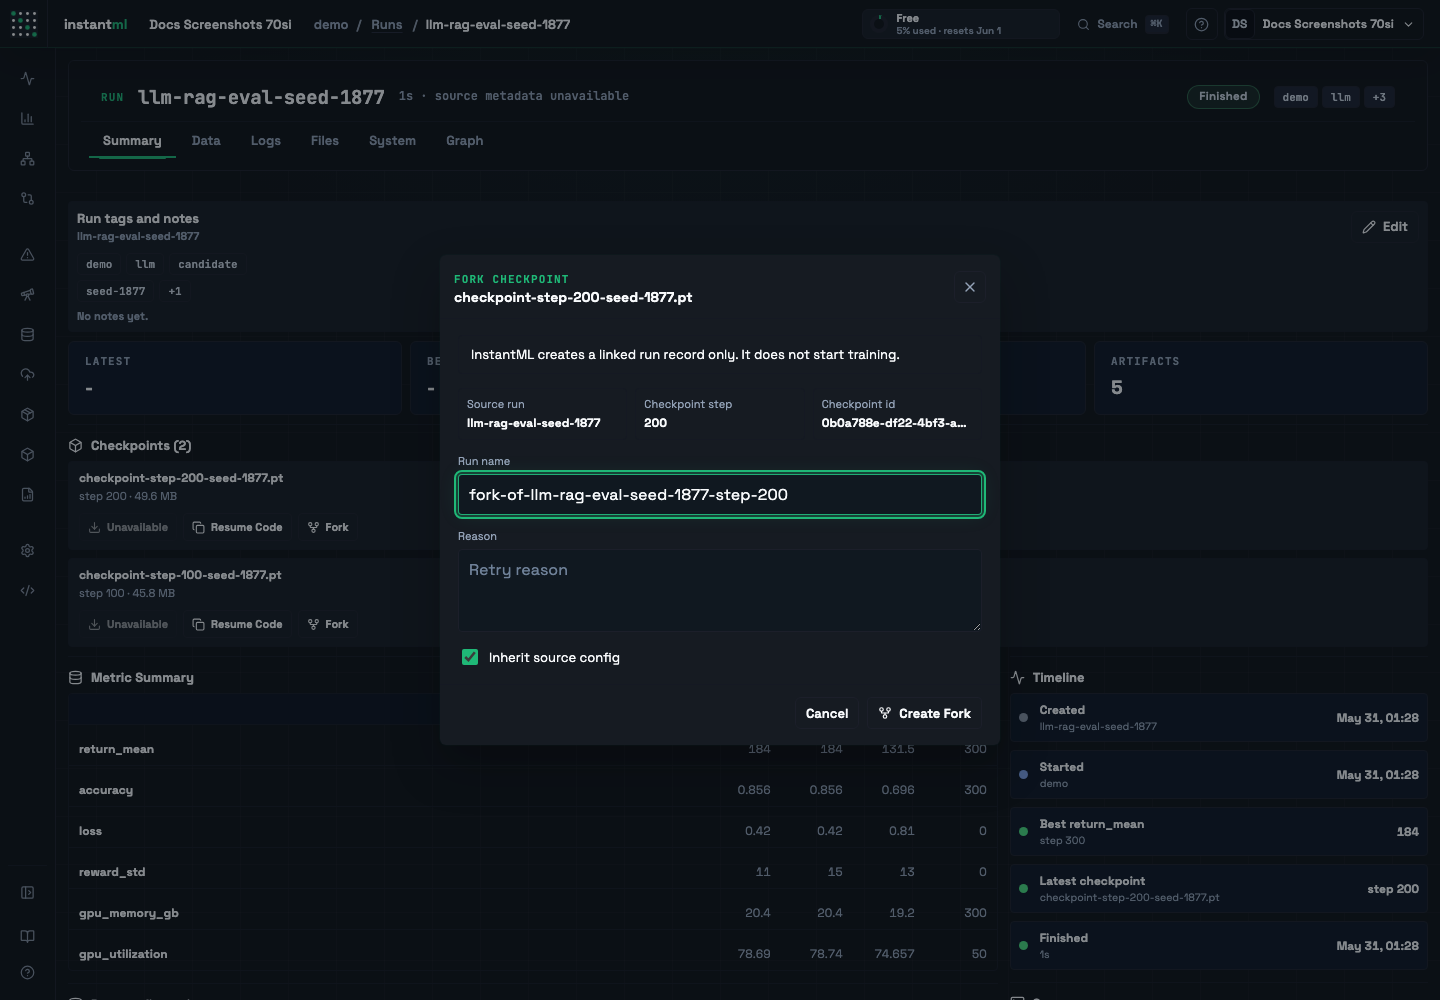
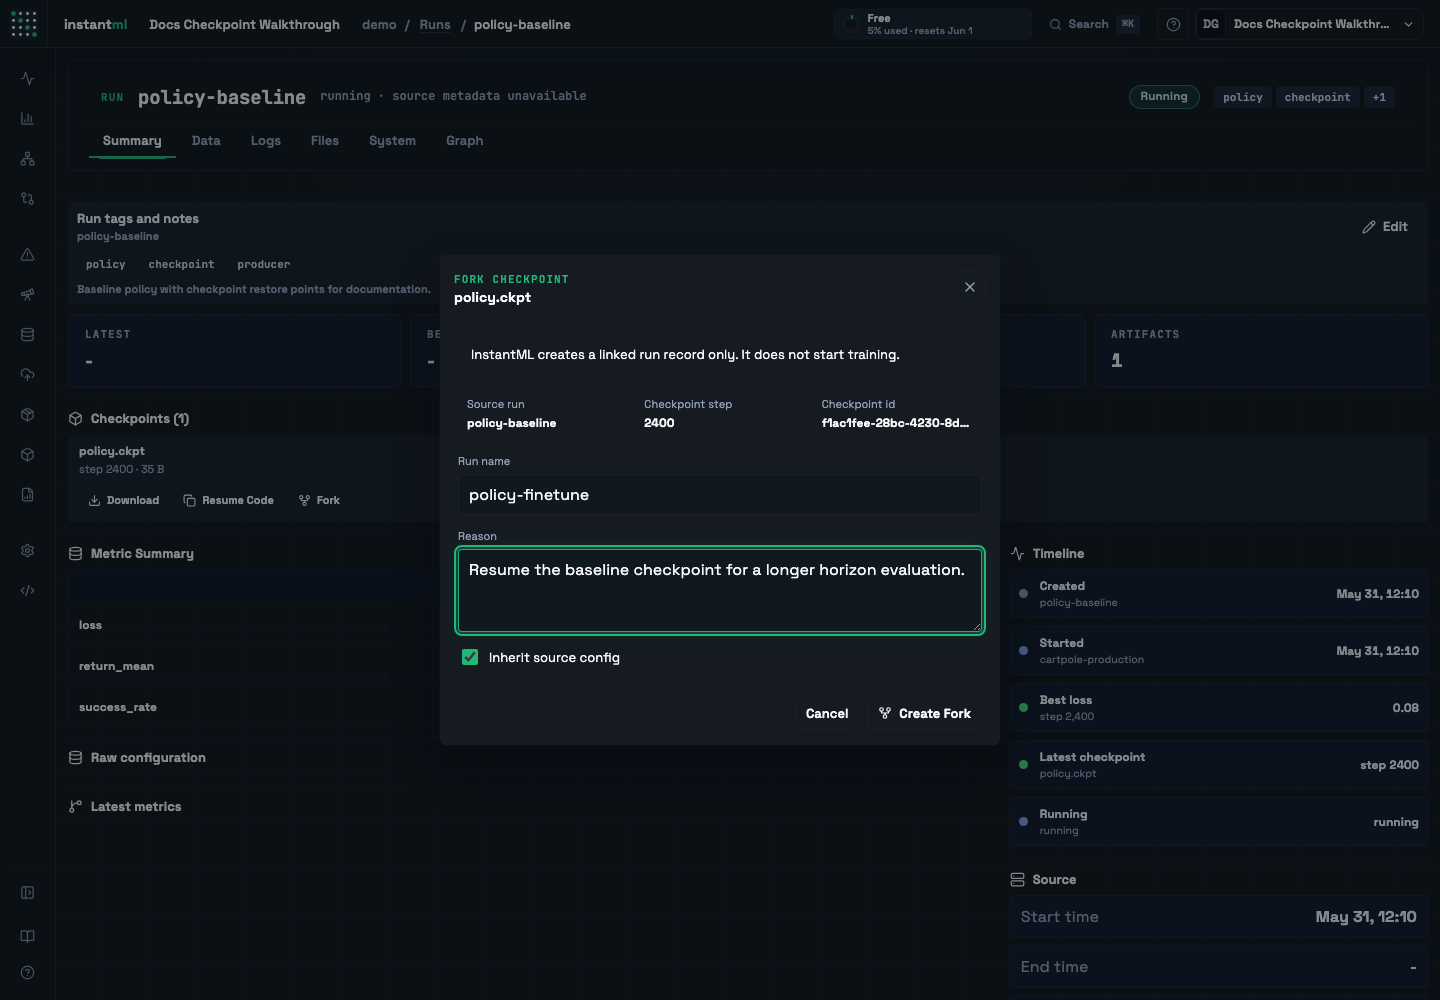
Update artifacts docs screenshots

diff --git a/apps/web/app/dashboard/dashboard-shell.tsx b/apps/web/app/dashboard/dashboard-shell.tsx
@@ -507,6 +507,9 @@ export function DashboardShell({ initialTab = "runs" }: { initialTab?: TabId }) 
   const [newApiKey, setNewApiKey] = useState("");
   const [adminBusy, setAdminBusy] = useState(false);
 
+  const hasSeriesRef = useRef(false);
+  const hasPanelSeriesRef = useRef(false);
+  const hasWorkspaceSeriesRef = useRef(false);
   const summaryMatchesProject = !project || summary.runs.every((run) => run.project === project);
   // Key the metric option list on its content, not on `summary` identity.
   // Otherwise every pagination produces a new array reference even when the
@@ -559,6 +562,11 @@ export function DashboardShell({ initialTab = "runs" }: { initialTab?: TabId }) 
   }, [activeTab, metricSeriesRuns, primaryRun?.id]);
   const seriesFetchRunKey = useMemo(() => seriesFetchRuns.map((run) => run.id).join(","), [seriesFetchRuns]);
   const dashboardSelectionFilterKey = [project, status, queryInput, query, sortBy, metricKey].join("\u0000");
+  useEffect(() => {
+    hasSeriesRef.current = series.length > 0;
+    hasPanelSeriesRef.current = Object.keys(panelSeries).length > 0;
+    hasWorkspaceSeriesRef.current = Object.keys(workspaceSeries).length > 0;
+  }, [panelSeries, series, workspaceSeries]);
   useEffect(() => {
     // Remember runs after commit so interrupted renders do not mutate the
     // directory. This keeps off-page selected runs resolvable without making
@@ -1435,7 +1443,7 @@ export function DashboardShell({ initialTab = "runs" }: { initialTab?: TabId }) 
   useEffect(() => {
     if (project && !summaryMatchesProject) {
       setWorkspaceReady(false);
-      setWorkspaceSeries({});
+      if (hasWorkspaceSeriesRef.current) setWorkspaceSeries({});
       return;
     }
     let raw = safeSavedView(localStorage.getItem(scopedWorkspaceStorageKey));
@@ -1452,7 +1460,7 @@ export function DashboardShell({ initialTab = "runs" }: { initialTab?: TabId }) 
     }
     setWorkspaceView(sanitizeWorkspaceView(raw, actualMetricOptions, project));
     setWorkspaceReady(Boolean(raw) || actualMetricOptions.length > 0);
-    setWorkspaceSeries({});
+    if (hasWorkspaceSeriesRef.current) setWorkspaceSeries({});
     setAddPanelSectionId("");
     setEditingPanelRef(null);
     setFullscreenPanelRef(null);
@@ -1506,6 +1514,9 @@ export function DashboardShell({ initialTab = "runs" }: { initialTab?: TabId }) 
     if (hoverFrameRef.current !== null) window.cancelAnimationFrame(hoverFrameRef.current);
   }, []);
 
+  // This effect owns selectedRunDetails hydration. Key it on the selection and
+  // current page data, not selectedRunDetails itself, so pruning/replacing page
+  // detail objects cannot schedule a render loop.
   useEffect(() => {
     let cancelled = false;
     const controller = new AbortController();
@@ -1555,7 +1566,7 @@ export function DashboardShell({ initialTab = "runs" }: { initialTab?: TabId }) 
       cancelled = true;
       controller.abort();
     };
-  }, [api, primaryRunId, referenceRunId, selectedRunDetails, selectedRunIds, sortedRuns]);
+  }, [api, primaryRunId, referenceRunId, selectedRunIds, sortedRuns]);
 
   useEffect(() => {
     if (preserveRunWorkspaceTabOnceRef.current) {
@@ -1581,13 +1592,13 @@ export function DashboardShell({ initialTab = "runs" }: { initialTab?: TabId }) 
       const shouldLoad = activeTab === "metrics" || (activeTab === "detail" && runWorkspaceTab === "data");
       const runsForFetch = seriesFetchRuns;
       if (!shouldLoad || !metricKey || !runsForFetch.length) {
-        setSeries([]);
+        if (hasSeriesRef.current) setSeries([]);
         return;
       }
       // Live refreshes (only the tick changed) keep the current curve on screen
       // and swap in the new points atomically; selection/metric changes clear
       // first and stream chunks for responsiveness.
-      if (!isLiveRefresh) setSeries([]);
+      if (!isLiveRefresh && hasSeriesRef.current) setSeries([]);
       const metricPayloads = await fetchBatchedMetricSeries(api, metricKey, runsForFetch, controller.signal, isLiveRefresh ? undefined : (patch) => {
         if (!cancelled) setSeries(patch);
       });
@@ -1613,10 +1624,10 @@ export function DashboardShell({ initialTab = "runs" }: { initialTab?: TabId }) 
       const metricsToLoad = pinnedMetrics.filter((metric) => metric && metric !== metricKey);
       const runsForFetch = metricSeriesRuns;
       if (activeTab !== "metrics" || !metricsToLoad.length || !runsForFetch.length) {
-        setPanelSeries({});
+        if (hasPanelSeriesRef.current) setPanelSeries({});
         return;
       }
-      if (!isLiveRefresh) setPanelSeries({});
+      if (!isLiveRefresh && hasPanelSeriesRef.current) setPanelSeries({});
       const next = await fetchMetricSeriesForMetrics(api, metricsToLoad, runsForFetch, controller.signal, (metric, patch) => {
         if (!cancelled && !isLiveRefresh) setPanelSeries((current) => ({ ...current, [metric]: patch }));
       });
@@ -1639,10 +1650,10 @@ export function DashboardShell({ initialTab = "runs" }: { initialTab?: TabId }) 
     workspaceSeriesSignatureRef.current = signature;
     async function loadWorkspaceSeries() {
       if (activeTab !== "runs" || !workspacePanelMetrics.length || !workspaceFetchRuns.length) {
-        setWorkspaceSeries({});
+        if (hasWorkspaceSeriesRef.current) setWorkspaceSeries({});
         return;
       }
-      if (!isLiveRefresh) setWorkspaceSeries({});
+      if (!isLiveRefresh && hasWorkspaceSeriesRef.current) setWorkspaceSeries({});
       const next = await fetchMetricSeriesForMetrics(api, workspacePanelMetrics, workspaceFetchRuns, controller.signal, (metric, patch) => {
         if (!cancelled && !isLiveRefresh) setWorkspaceSeries((current) => ({ ...current, [metric]: patch }));
       });

diff --git a/apps/web/tests/docs-route.test.js b/apps/web/tests/docs-route.test.js
@@ -224,6 +224,8 @@ test("dashboard workflow docs expose product screenshots through the route parse
   const artifactImages = artifacts.blocks.filter((block) => block.type === "image").map((block) => block.src);
   assert.ok(artifactImages.includes("/images/product/dashboard-artifacts-evidence.png"));
   assert.ok(artifactImages.includes("/images/product/dashboard-artifacts-browser.png"));
+  assert.ok(artifactImages.includes("/images/product/dashboard-checkpoint-fork.png"));
+  assert.ok(artifactImages.includes("/images/product/dashboard-checkpoints.png"));
 
   const tour = await loadDocsPage(["dashboard", "tour"]);
   const tourImages = tour.blocks.filter((block) => block.type === "image").map((block) => block.src);

diff --git a/apps/web/tests/state.test.js b/apps/web/tests/state.test.js
@@ -226,6 +226,8 @@ test("defaultRunSelection only auto-selects once", () => {
   assert.equal(selected.ids.at(-1), `run-${DEFAULT_SELECTED_RUNS - 1}`);
   assert.deepEqual(defaultRunSelection([], runs, true), { ids: [], initialized: true });
   assert.deepEqual(defaultRunSelection(["chosen"], runs, false), { ids: ["chosen"], initialized: false });
+  const emptySelection = [];
+  assert.equal(defaultRunSelection(emptySelection, [], false).ids, emptySelection);
 });
 
 test("shortcut helpers detect platform commands and editable targets", () => {

diff --git a/apps/web/src/state.js b/apps/web/src/state.js
@@ -70,6 +70,7 @@ export function defaultRunSelection(currentIds, runs, defaultInitialized) {
     return { ids: current, initialized: defaultInitialized };
   }
   const ids = (Array.isArray(runs) ? runs : []).slice(0, DEFAULT_SELECTED_RUNS).map((run) => run?.id).filter(Boolean);
+  if (!ids.length) return { ids: current, initialized: false };
   return { ids, initialized: ids.length > 0 };
 }
 
